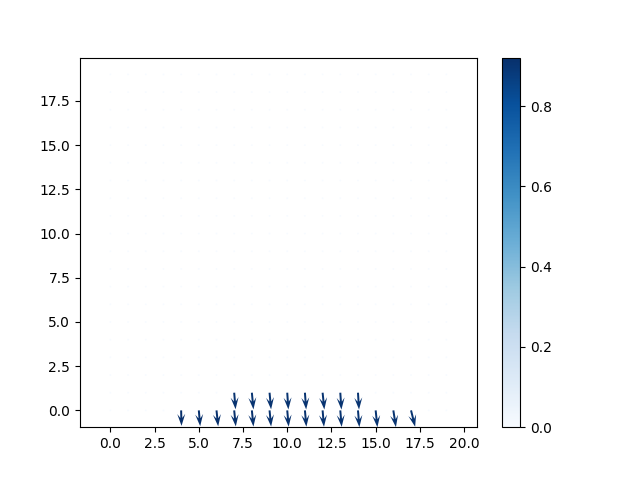
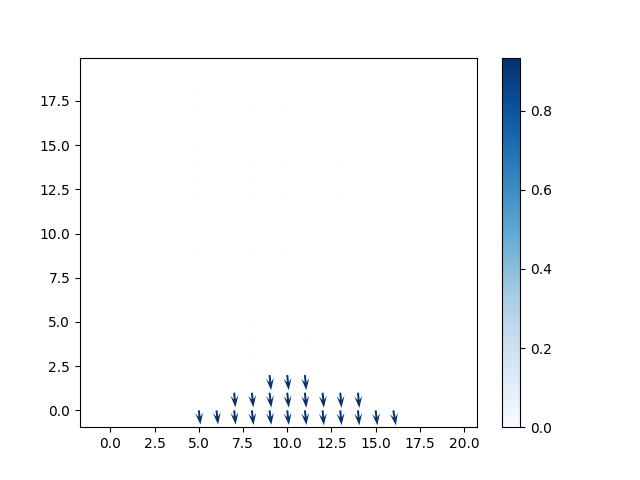
modify the pipeline

diff --git a/test2.py b/test2.py
@@ -21,24 +21,29 @@ def test_cylin_and_rect():
         F_mask = np.linalg.norm(F_field, axis=1) > 0.04
         N_field = core.calculate_normal(P_field)
         T_field = core.calculate_tangential(N_field, F_field)
-        K1, s1 = core.fit_K(N_field, F_mask, save_img=False)
-        K2, s2 = core.fit_K(N_field, F_mask, save_img=False)
+        Kn1, sn1 = core.fit_K(N_field, F_mask, save_img=False)
+        Kt1, st1 = core.fit_K(T_field, F_mask, save_img=False)
+        Kn2, sn2 = core.fit_K(N_field, F_mask, save_img=False)
+        Kt2, st2 = core.fit_K(T_field, F_mask, save_img=False)
+        ss.append(sn1)
         # # for rectangle
-        # s1, s2 = np.array([s1[0], s1[1], s1[2] - 1]), np.array([s2[0], s2[1], s2[2] - 1])
+        # K1, K2 = Kn1, Kn2
+        # s1, s2 = np.array([sn1[0], sn1[1], sn1[2] - 1]), np.array([sn2[0], sn2[1], sn2[2] - 1])
         # # for cylinder
-        # K2[0, 1], K2[1, 0], s1, s2 = -K2[0, 1], -K2[1, 0], np.array([s1[0], s1[1], s1[2] - 1]), np.array([s2[0], -s2[1], s2[2] - 1])
+        # K1, K2 = Kn1, Kn2
+        # K2[0, 1], K2[1, 0], s1, s2 = -K2[0, 1], -K2[1, 0], np.array([sn1[0], sn1[1], sn1[2] - 1]), np.array([sn2[0], -sn2[1], sn2[2] - 1])
         # for pivoting
-        K1, K2 = K1[:2, :], K2[:2, :]
-        K2[0, 1], K2[1, 0], s1, s2 = -K2[0, 1], -K2[1, 0], np.array([s1[0] - 1, s1[1]]), np.array([s2[0] - 1, -s2[1]])
+        K1, K2 = Kt1, Kt2
+        K2[0, 1], K2[1, 0], s1, s2 = -K2[0, 1], -K2[1, 0], np.array([st1[0] - 1, st1[1], st1[2]]), np.array([st2[0] - 1, -st2[1], st2[2]])
 
-        J_1, J_2 = core.calculate_Jacobi(d=20)
+        J1, J2 = core.calculate_Jacobi(d=20)
         w = core.calculate_weight(d=20)
-        delta_u = core.optimize_motion(K1, K2, J_1, J_2, s1, s2, 0.01*w)
+        delta_u = core.optimize_motion(K1, K2, J1, J2, s1, s2, 0.1*w)
         Ks.append(delta_u)
-        ss.append(s1)
+
 
     plt.plot(Ks)
-    plt.legend(['δy', 'δz', 'δθy', 'δθz'])
+    plt.legend(['δyt', 'δzt', 'δθyt', 'δθzt'])
     plt.show()
 
 def test_pivot():

diff --git a/core.py b/core.py
@@ -135,7 +135,7 @@ def calculate_weight(d):
     """
     return np.array([[1, 0, 0, 0], [0, 1, 0, 0] ,[0, 0, d, 0] ,[0, 0, 0, d]])
 
-def optimize_motion(K_1, K_2, J_1, J_2, s_1, s_2, w):
+def optimize_motion(K1, K2, J1, J2, s1, s2, w):
     """
     Optimizes the motion of the fingers using the Jacobian matrices and the tactile field data by solving the linear problem.
     Args:
@@ -146,9 +146,9 @@ def optimize_motion(K_1, K_2, J_1, J_2, s_1, s_2, w):
     Returns:
         delta_u (np.ndarray): The optimized motion of the fingers.
     """
-    KJ_1, KJ_2 = K_1 @ J_1, K_2 @ J_2
-    A = KJ_1.T @ KJ_1 + KJ_2.T @ KJ_2 + w.T @ w
-    b = -KJ_1.T @ s_1 - KJ_2.T @ s_2
+    KJ1, KJ2 = K1 @ J1, K2 @ J2
+    A = KJ1.T @ KJ1 + KJ2.T @ KJ2 + w.T @ w
+    b = -(KJ1.T @ s1 + KJ2.T @ s2)
     delta_u = np.linalg.solve(A, b)
 
     return delta_u
